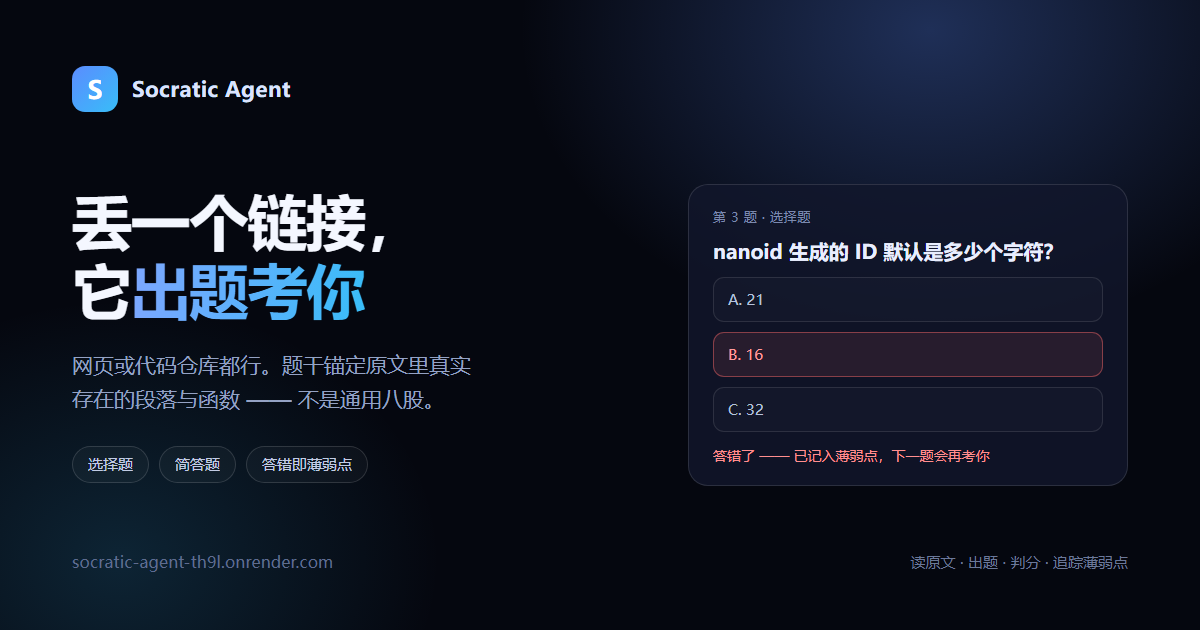
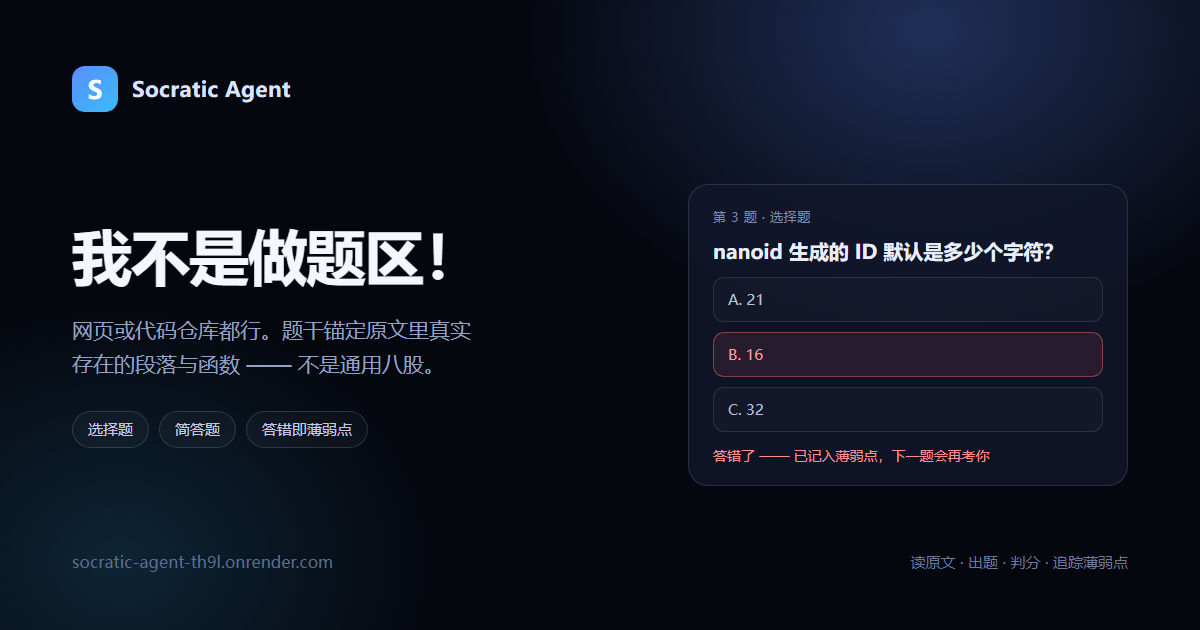
首页 Hero 换文案「我不是做题区！」并去掉标题渐变
- UrlGate 首屏 h1 改为「我不是做题区！」；新增 .gate-title--plain 修饰类关掉渐变
  （不能直接改 .gate-title —— 它被 page.tsx 加载态标题「正在解析 URL 内容…」共用）
- layout.tsx：<title> / og:title / twitter:title 换成可搜索的描述性文案
  「读网页与仓库，出题考你」；品牌钩子只放视觉位（h1 + 分享卡片图），不塞进 <title>
- quiz/[id] 的 OG 图 alt 同步；opengraph-image.png 重渲染（纯色标题，无渐变）
- 回归：.tmp/verify-promo.mjs 18/18 通过（该脚本原本断言旧 h1，已同步更新）

Changed region(s): [[0.0617, 0.3016, 0.4008, 0.754], [0.0617, 0.7238, 0.185, 0.754]]

diff --git a/src/app/layout.tsx b/src/app/layout.tsx
@@ -8,13 +8,18 @@ import './globals.css';
  */
 const SITE_URL = process.env.NEXT_PUBLIC_SITE_URL || 'https://socratic-agent-th9l.onrender.com';
 
-/** 标题卖结果，不卖品类。「基于 URL 的智能问答」没人搜也没人点。 */
-const TAGLINE = '丢一个链接，它出题考你有没有真读懂';
+/**
+ * 标题卖结果，不卖品类。「基于 URL 的智能问答」没人搜也没人点。
+ *
+ * ⚠ 品牌钩子「我不是做题区！」只放**视觉位**（首屏 h1 + 分享卡片图）；
+ * metadata 保持**可被搜索**的描述性文案 —— 钩子没人搜，塞进 <title> 等于丢流量。
+ */
+const TAGLINE = '读网页与仓库，出题考你';
 const BLURB = '选择题或简答题，题干锚定原文里真实存在的段落与函数。答错的题会成为下一题的靶子。';
 
 export const metadata: Metadata = {
   metadataBase: new URL(SITE_URL),
-  title: 'Socratic Agent · 丢一个链接，它出题考你',
+  title: 'Socratic Agent · 读网页与仓库，出题考你',
   description:
     '粘贴一个网页或代码仓库的地址，它读完内容后出题考你：选择题或简答题，题干锚定原文里真实存在的段落与函数。答错的题会成为后续出题的靶子。',
   applicationName: 'Socratic Agent',

diff --git a/src/app/globals.css b/src/app/globals.css
@@ -1682,6 +1682,20 @@ textarea {
   color: transparent;
 }
 
+/**
+ * 首页 Hero 标题要纯色、不要渐变。
+ * ⚠ 必须用独立修饰类，不能直接改 `.gate-title` ——
+ * 那个类还被 page.tsx 的加载态标题「正在解析 URL 内容…」共用。
+ * ⚠ 关渐变必须同时重置 `-webkit-background-clip` 并把 color 设回不透明，
+ * 只写 `background:none` 会留下 `color:transparent`，文字直接隐形。
+ */
+.gate-title--plain {
+  background: none;
+  -webkit-background-clip: initial;
+  background-clip: initial;
+  color: #f2f6ff;
+}
+
 .gate-sub {
   position: relative;
   margin: 0 auto 26px;

diff --git a/src/components/UrlGate.tsx b/src/components/UrlGate.tsx
@@ -79,7 +79,7 @@ export function UrlGate({
     <div className="gate">
       <div className="gate-card">
         <div className="gate-badge">V1.1</div>
-        <h1 className="gate-title">丢一个链接，它出题考你</h1>
+        <h1 className="gate-title gate-title--plain">我不是做题区！</h1>
         <p className="gate-sub">
           粘贴一个<strong>网页</strong>或<strong>代码仓库</strong>地址。它读完内容后出题考你 ——
           题干锚定原文里真实存在的段落与函数，答错的题会成为后续出题的靶子。

diff --git a/src/app/quiz/[id]/page.tsx b/src/app/quiz/[id]/page.tsx
@@ -28,7 +28,7 @@ const OG_IMAGE = {
   url: '/opengraph-image.png',
   width: 1200,
   height: 630,
-  alt: 'Socratic Agent —— 丢一个链接，它出题考你有没有真读懂',
+  alt: 'Socratic Agent —— 我不是做题区！',
 };
 
 export async function generateMetadata({ params }: Props): Promise<Metadata> {
